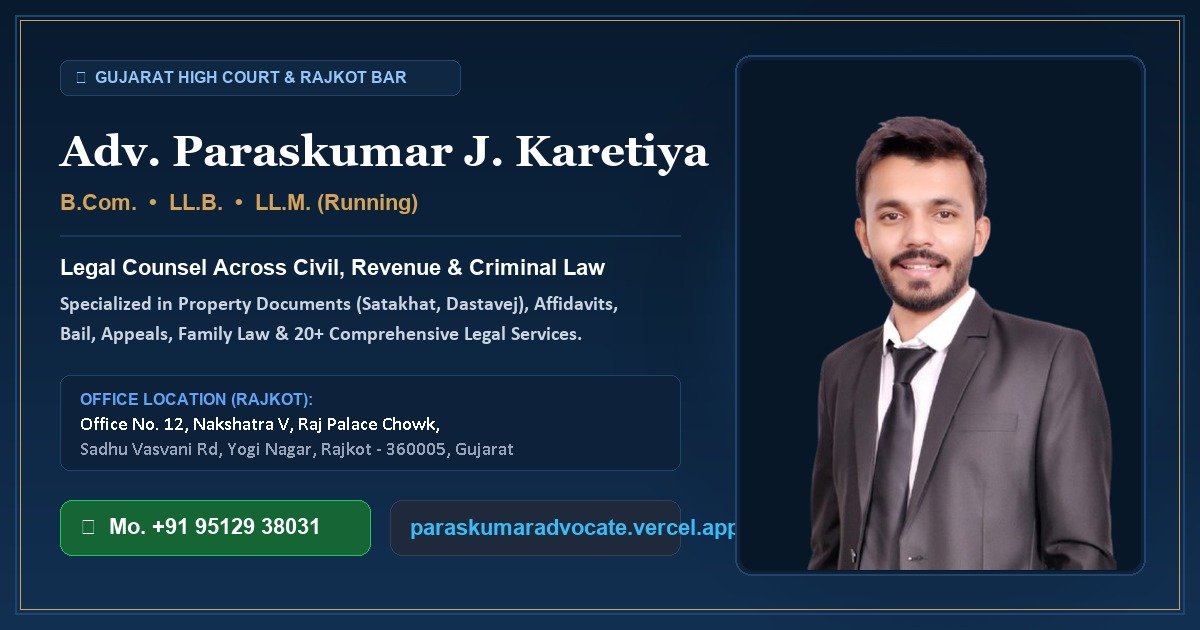
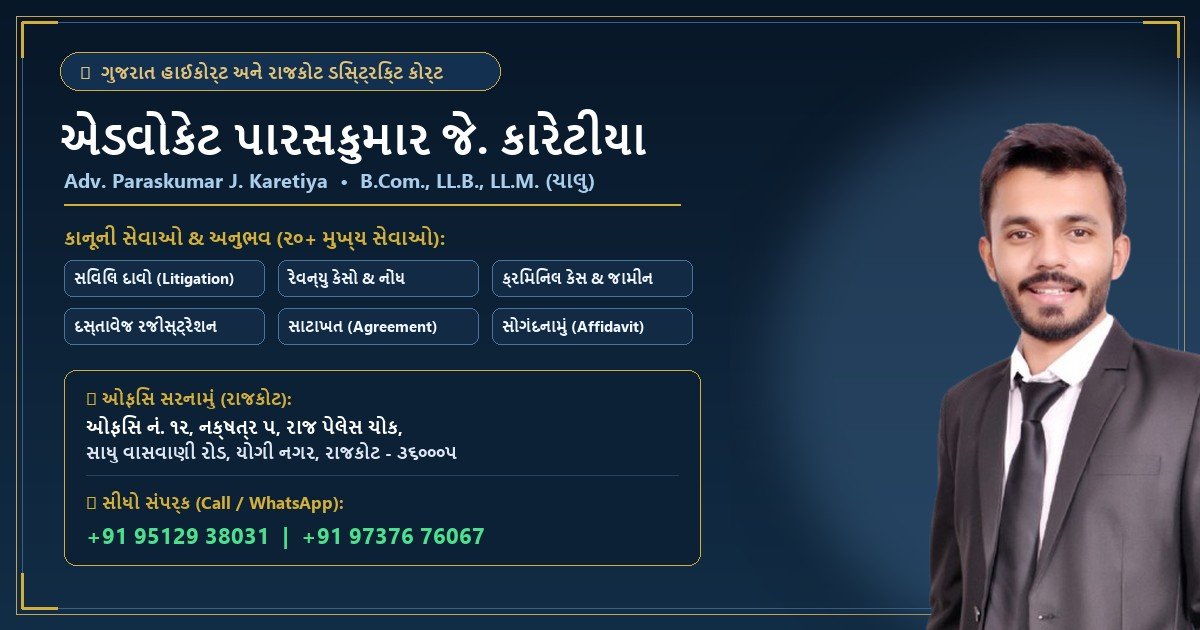
Configure Gujarati rich preview card and Open Graph metadata

diff --git a/index.html b/index.html
@@ -4,10 +4,10 @@
     <meta charset="UTF-8" />
     <meta name="viewport" content="width=device-width, initial-scale=1.0" />
     
-    <!-- Primary Title & Meta Description -->
-    <title>Adv. Paraskumar J. Karetiya | Advocate Gujarat High Court & Rajkot District Courts</title>
-    <meta name="title" content="Adv. Paraskumar J. Karetiya | Advocate Gujarat High Court & Rajkot District Courts" />
-    <meta name="description" content="Adv. Paraskumar J. Karetiya (B.Com., LL.B., LL.M. Running) - Civil, Revenue, Criminal litigation, Property Documentation (Satakhat, Dastavej), Affidavits, and 20+ Legal Services. Advocate Paraskumar Karetiya, Office No.12, Nakshatra V, Raj Palace Chowk, Sadhu Vasvani Rd, Yogi Nagar, Rajkot, Gujarat 360005." />
+    <!-- Primary Title & Meta Description (Gujarati First) -->
+    <title>એડવોકેટ પારસકુમાર જે. કારેટીયા | ગુજરાત હાઈકોર્ટ અને રાજકોટ ડિસ્ટ્રિક્ટ કોર્ટ વકીલ</title>
+    <meta name="title" content="એડવોકેટ પારસકુમાર જે. કારેટીયા | ગુજરાત હાઈકોર્ટ અને રાજકોટ ડિસ્ટ્રિક્ટ કોર્ટ વકીલ" />
+    <meta name="description" content="એડવોકેટ પારસકુમાર જે. કારેટીયા (બી.કોમ., એલ.એલ.બી., એલ.એલ.એમ. ચાલુ) - સિવિલ દાવો, રેવન્યુ કેસ, ક્રિમિનલ કેસ, દસ્તાવેજ રજીસ્ટ્રેશન, સાટાખત, સોગંદનામું અને ૨૦+ કાનૂની સેવાઓ. ઓફિસ નં. ૧૨, નક્ષત્ર ૫, રાજ પેલેસ ચોક, સાધુ વાસવાણી રોડ, યોગી નગર, રાજકોટ. મો. +91 95129 38031." />
     <meta name="keywords" content="Advocate Paraskumar Karetiya, Adv Paraskumar Karetiya, Paras Karetiya Advocate, Advocate in Rajkot, Gujarat High Court Advocate, Best Advocate Rajkot, Civil Lawyer Rajkot, Criminal Lawyer Rajkot, Revenue Lawyer Rajkot, Property Documentation Lawyer Rajkot, Sadhu Vasvani Road Advocate, Paresh Baldaniya Advocate, Nakshatra Complex 5 Advocate, એડવોકેટ પારસકુમાર કારેટીયા, રાજકોટ વકીલ, ગુજરાત હાઈકોર્ટ વકીલ, દસ્તાવેજ વકીલ, સાટાખત, સોગંદનામું, અપીલ, દાવો, જમીન રેવન્યુ કેસ" />
     <meta name="author" content="Adv. Paraskumar J. Karetiya" />
     <meta name="publisher" content="Adv. Paraskumar J. Karetiya Legal Practice" />
@@ -23,27 +23,27 @@
     <meta name="format-detection" content="telephone=yes" />
     <meta name="theme-color" content="#081a2e" />
 
-    <!-- WhatsApp, Facebook, LinkedIn, Telegram Open Graph Rich Previews -->
+    <!-- WhatsApp, Facebook, LinkedIn, Telegram Open Graph Rich Previews (Gujarati) -->
     <meta property="og:type" content="website" />
-    <meta property="og:site_name" content="Adv. Paraskumar J. Karetiya" />
+    <meta property="og:site_name" content="એડવોકેટ પારસકુમાર જે. કારેટીયા (Adv. Paraskumar J. Karetiya)" />
     <meta property="og:url" content="https://paraskumaradvocate.vercel.app/" />
-    <meta property="og:title" content="Adv. Paraskumar J. Karetiya | Advocate Gujarat High Court & Rajkot" />
-    <meta property="og:description" content="Trusted Legal Counsel across Civil, Revenue & Criminal Law. Office No. 12, Nakshatra V, Raj Palace Chowk, Sadhu Vasvani Rd, Yogi Nagar, Rajkot. Mo. +91 95129 38031" />
+    <meta property="og:title" content="એડવોકેટ પારસકુમાર જે. કારેટીયા | ગુજરાત હાઈકોર્ટ & રાજકોટ વકીલ" />
+    <meta property="og:description" content="સિવિલ દાવો, રેવન્યુ કેસ, ક્રિમિનલ કેસ, દસ્તાવેજ રજીસ્ટ્રેશન, સાટાખત, સોગંદનામું અને ૨૦+ કાનૂની સેવાઓ. ઓફિસ નં. ૧૨, નક્ષત્ર ૫, સાધુ વાસવાણી રોડ, રાજકોટ. મો. +91 95129 38031" />
     <meta property="og:image" content="https://paraskumaradvocate.vercel.app/og-image.jpg" />
     <meta property="og:image:secure_url" content="https://paraskumaradvocate.vercel.app/og-image.jpg" />
     <meta property="og:image:type" content="image/jpeg" />
     <meta property="og:image:width" content="1200" />
     <meta property="og:image:height" content="630" />
-    <meta property="og:image:alt" content="Adv. Paraskumar J. Karetiya - Legal Counsel Gujarat High Court & Rajkot" />
-    <meta property="og:locale" content="en_IN" />
-    <meta property="og:locale:alternate" content="gu_IN" />
+    <meta property="og:image:alt" content="એડવોકેટ પારસકુમાર જે. કારેટીયા - ગુજરાત હાઈકોર્ટ અને રાજકોટ ડિસ્ટ્રિક્ટ કોર્ટ વકીલ" />
+    <meta property="og:locale" content="gu_IN" />
+    <meta property="og:locale:alternate" content="en_IN" />
     <link rel="image_src" href="https://paraskumaradvocate.vercel.app/og-image.jpg" />
 
     <!-- Twitter / X Card -->
     <meta name="twitter:card" content="summary_large_image" />
     <meta name="twitter:url" content="https://paraskumaradvocate.vercel.app/" />
-    <meta name="twitter:title" content="Adv. Paraskumar J. Karetiya | Advocate Gujarat High Court & Rajkot" />
-    <meta name="twitter:description" content="Trusted Legal Counsel across Civil, Revenue & Criminal Law. Office No. 12, Nakshatra V, Raj Palace Chowk, Sadhu Vasvani Rd, Yogi Nagar, Rajkot. Mo. +91 95129 38031" />
+    <meta name="twitter:title" content="એડવોકેટ પારસકુમાર જે. કારેટીયા | ગુજરાત હાઈકોર્ટ & રાજકોટ વકીલ" />
+    <meta name="twitter:description" content="સિવિલ દાવો, રેવન્યુ કેસ, ક્રિમિનલ કેસ, દસ્તાવેજ રજીસ્ટ્રેશન, સાટાખત, સોગંદનામું અને ૨૦+ કાનૂની સેવાઓ. ઓફિસ નં. ૧૨, નક્ષત્ર ૫, સાધુ વાસવાણી રોડ, રાજકોટ. મો. +91 95129 38031" />
     <meta name="twitter:image" content="https://paraskumaradvocate.vercel.app/og-image.jpg" />
 
     <!-- Favicon & PWA Manifest -->
